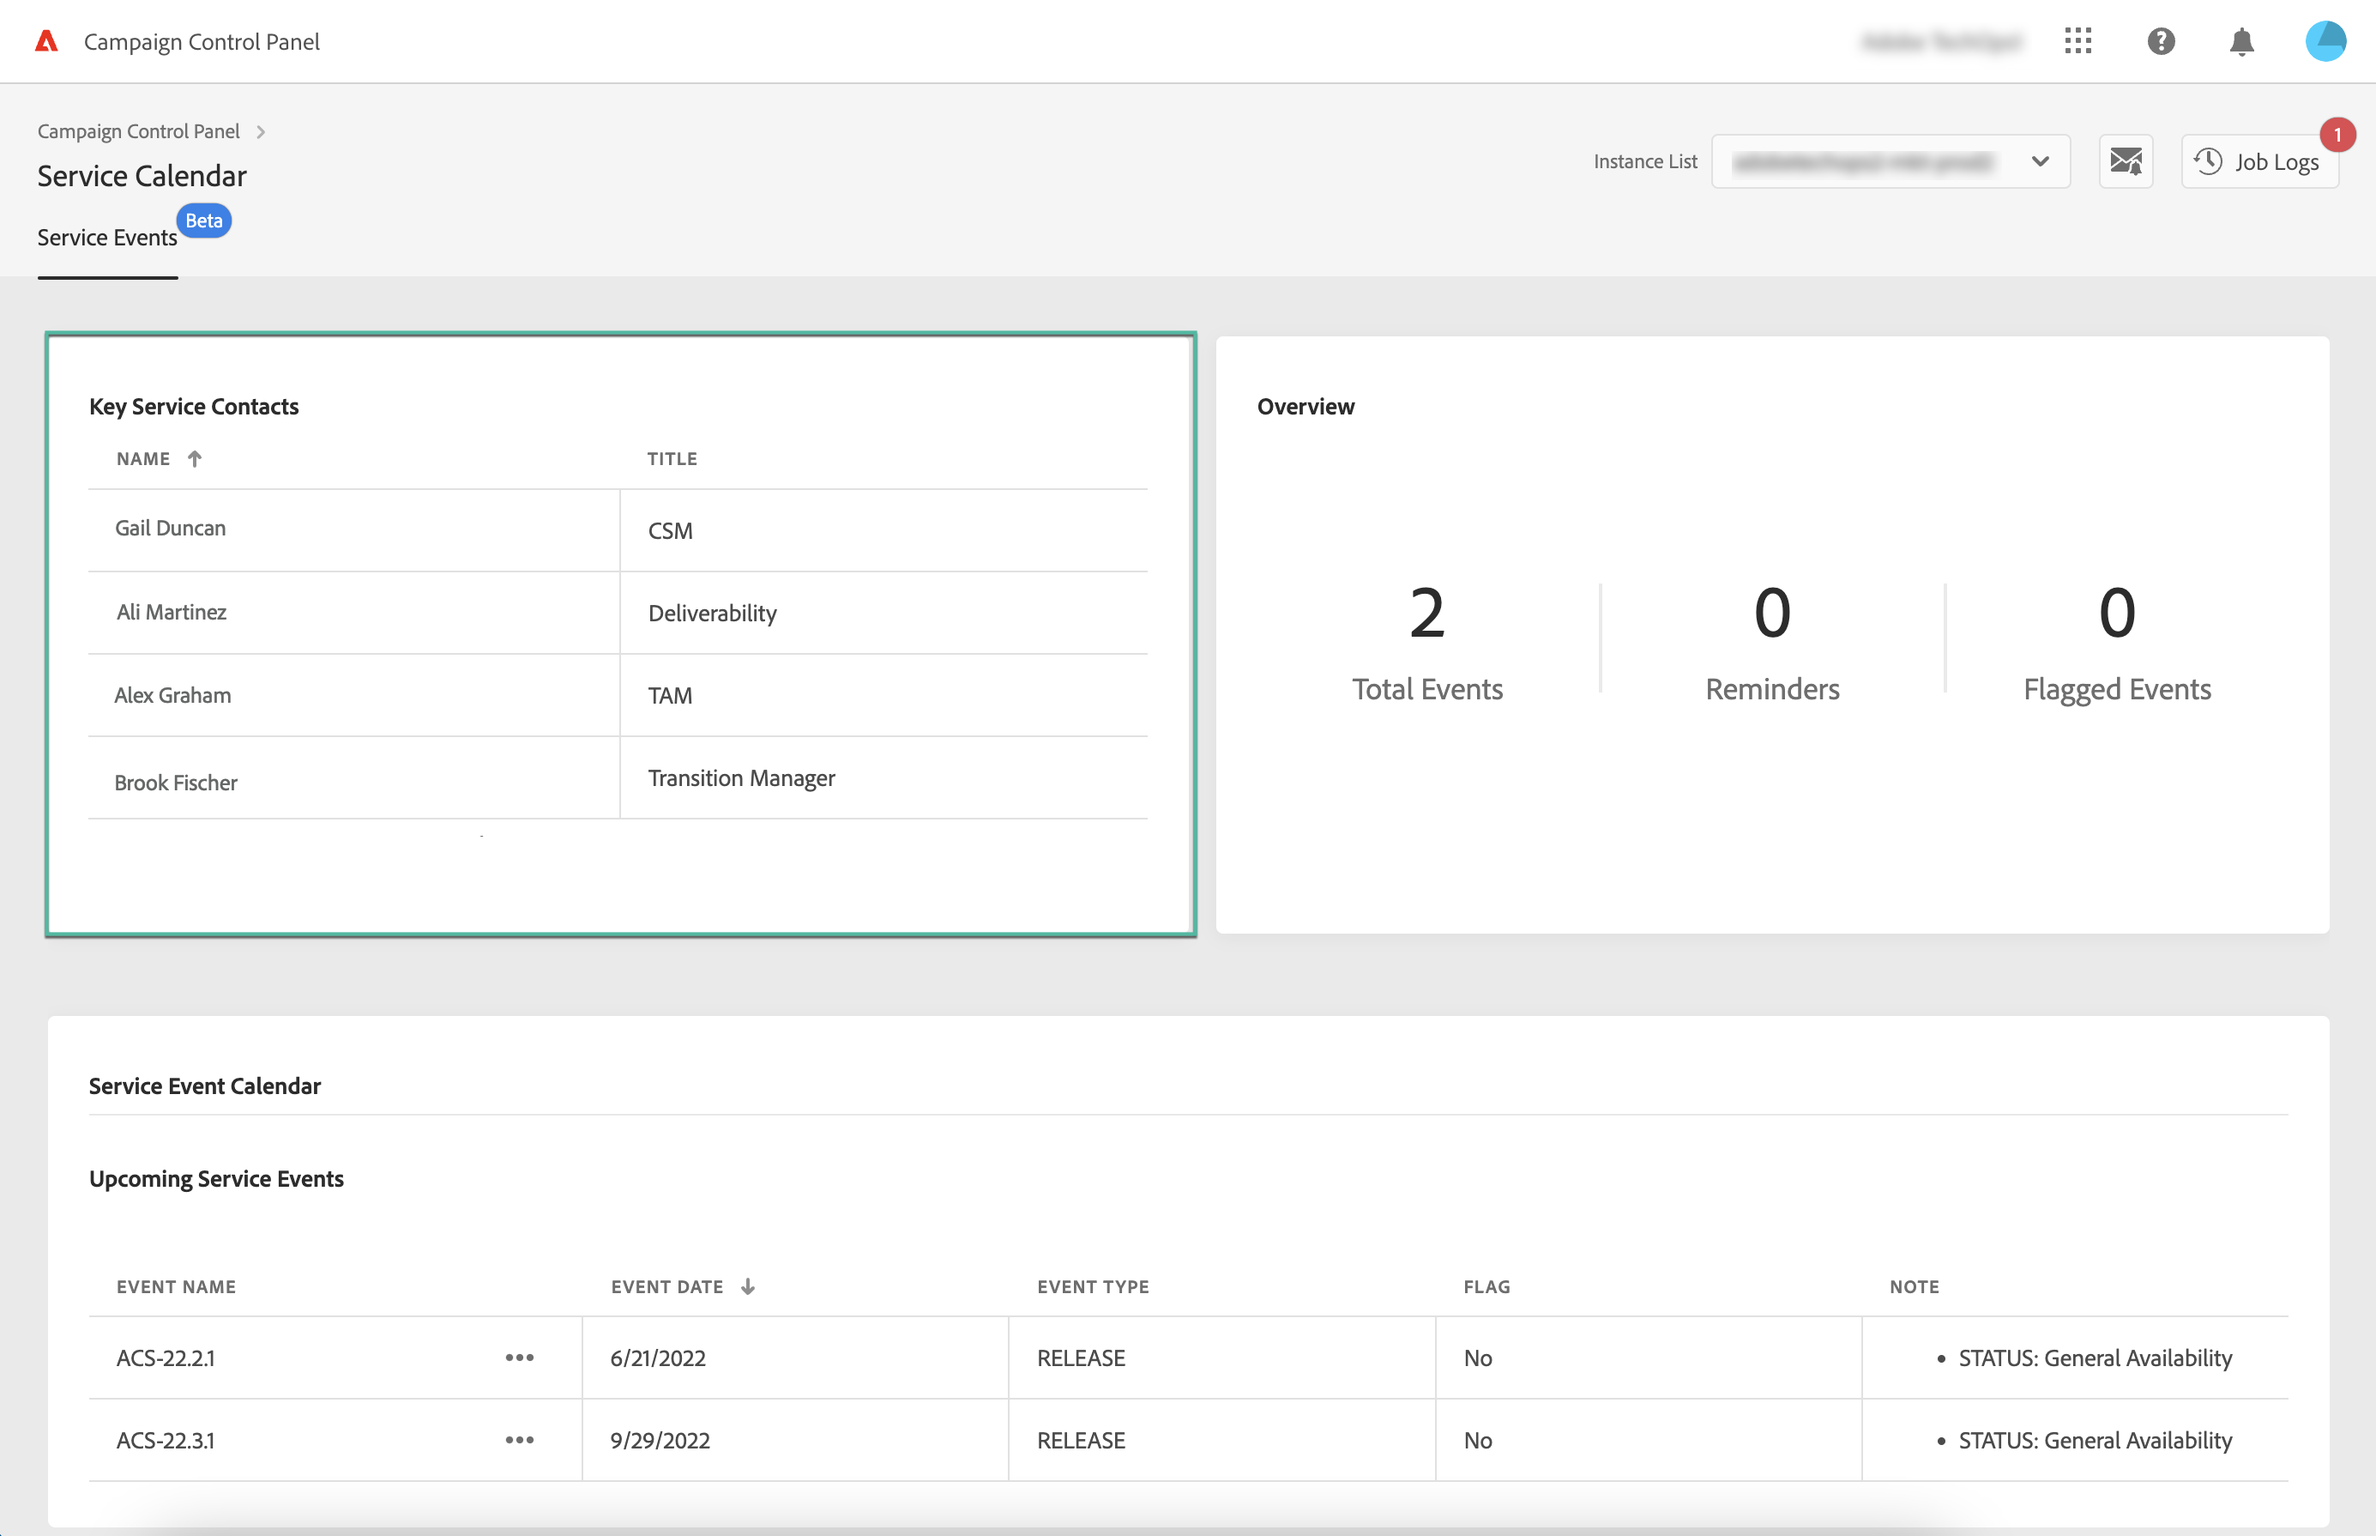
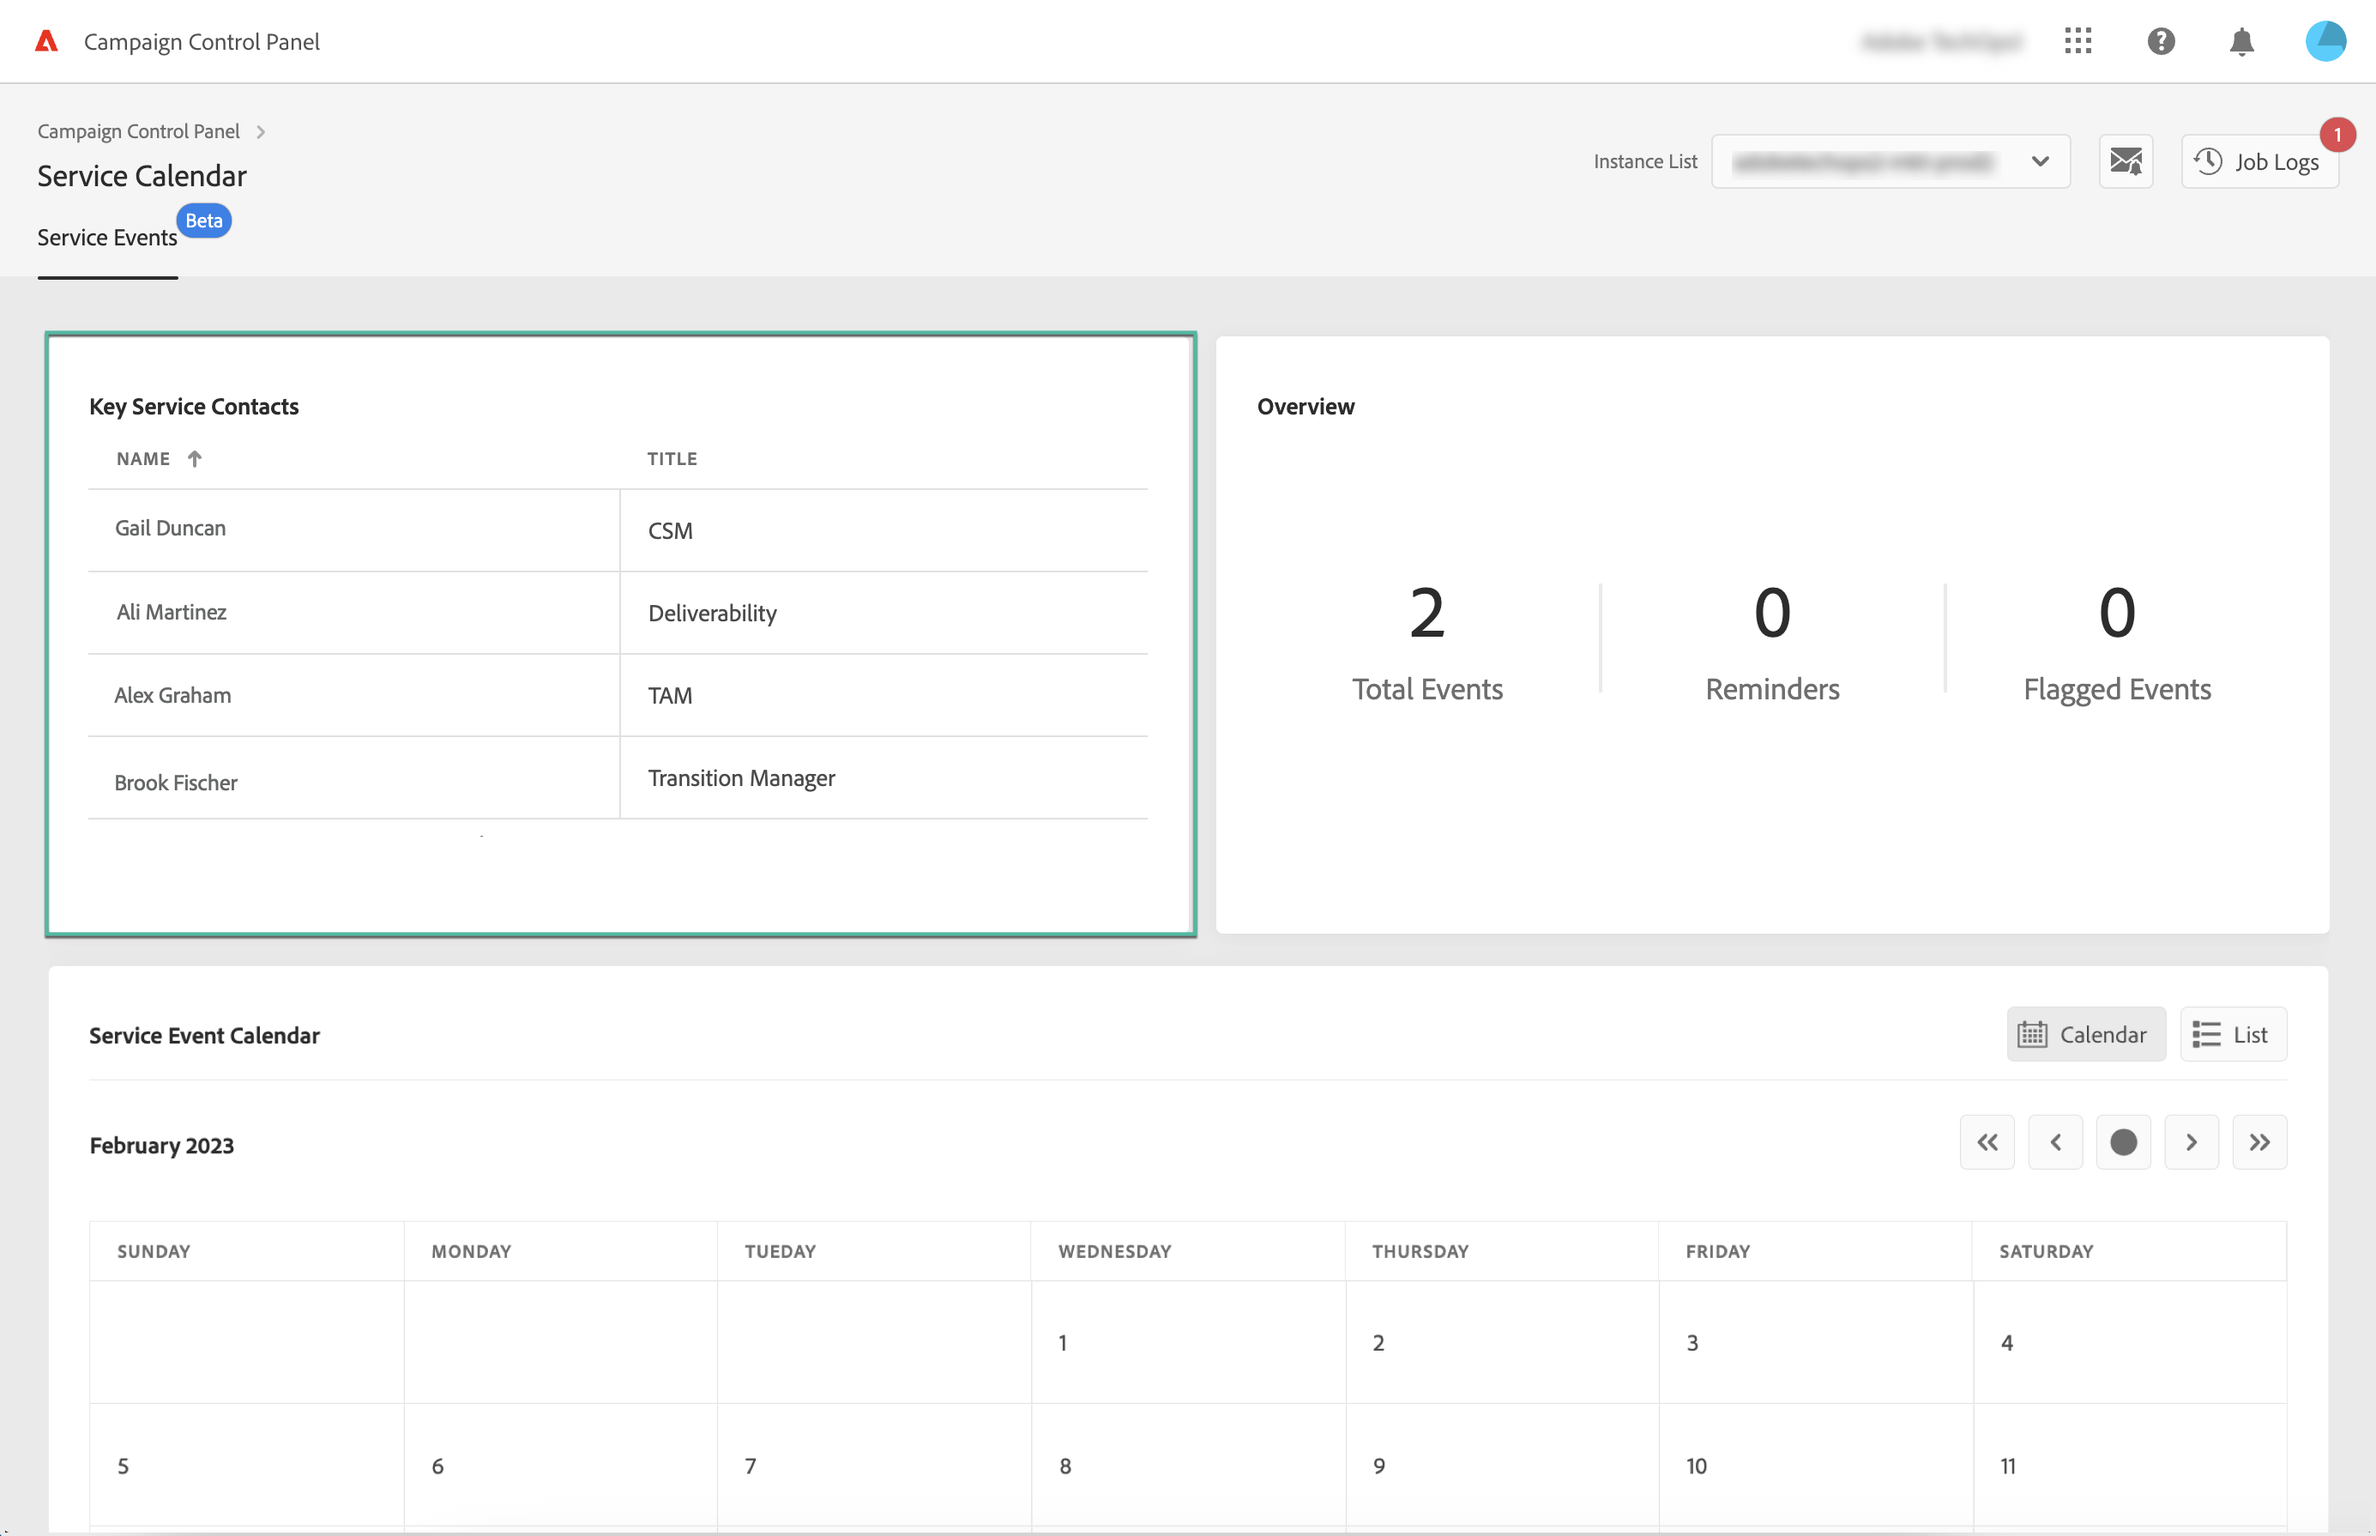
calendar

diff --git a/help/service-events/service-events.md b/help/service-events/service-events.md
@@ -13,17 +13,17 @@ exl-id: d230aae6-4f0e-4201-bb3c-0e3f83a7c1b8
 >[!CONTEXTUALHELP]
 >id="cp_servicecalendar_serviceevents"
 >title="Service Calendar"
->abstract="The Key contacts section lists the persons at Adobe to contact for any request or issue on your instances. In the Service Event Calendar section, you can identify releases and service reviews for the selected instance and set up reminders for upcoming events."
+>abstract="The Key contacts section lists the persons at Adobe to contact for any request or issue on your instances. In the Service Event Calendar section, you can identify past and upcoming releases, alerts for the selected instance and set up reminders for upcoming events."
 
 >[!IMPORTANT]
 >
 >Service Calendar is available in beta, and subject to frequent updates and modifications without notice.
 
-Identifying events planned on your instances is essential to monitor your Campaign instances.
+To effectively monitor your Campaign instances, it is crucial to identify events. The Control Panel allows you to monitor releases and alerts for your instances, and provides a list of key Adobe contacts for any requests or issues.
 
-With Control Panel, you can monitor releases and service reviews occurring on your instances and access a list of key contacts at Adobe for any request or issue.
+Identifying events on your Campaign instances is essential to effectively monitor them. Control Panel allows you to monitor releases and alerts for your instances, and provides a list of key Adobe contacts for any requests or issues.
 
-These information are accessible from the **[!UICONTROL Service Calendar]** card on Control Panel homepage.
+This information is accessible from the **[!UICONTROL Service Calendar]** card on Control Panel homepage.
 
 ## Key contacts {#key-contacts}
 
@@ -31,7 +31,7 @@ The **[!UICONTROL Key contacts]** section lists the persons at Adobe that you ca
 
 >[!NOTE]
 >
->This section will show information only for Managed Service Accounts.
+>This section only shows information for Managed Service Accounts.
 
 ![](assets/service-events-contacts.png)
 
@@ -43,29 +43,42 @@ Key contacts include the following roles:
 * **[!UICONTROL Transition Manager]**: Managed Services Transition Manager (Managed Services Account only),
 * **[!UICONTROL On-boarding Specialist]**: Specialist assigned to the account to help you on-board onto Campaign Classic (Managed Services Account only).
 
-## Events {#events}
+## Monitor events {#events}
 
-### Monitor events {#monitor-events}
+The **[!UICONTROL Service Event Calendar]** section shows all past and upcoming releases, as well as alerts and reminders for the selected instance.
 
-The **[!UICONTROL Service Event Calendar]** section shows all past and upcoming releases and service reviews for the selected instance.
+Events are displayed either in a calendar or a list. You can switch between the two views using the **[!UICONTROL Calendar]** and **[!UICONTROL List]** buttons in the upper-right corner of the section.
 
 ![](assets/service-events-calendar.png)
 
-The **[!UICONTROL Note]** column provides information on the status of each release:
+<table><tr style="border: 0;">
+<td><img src="assets/do-not-localize/nav-buttons.png">
+</td><td>In calendar view, navigation buttons are available in the upper-right corner to help you browse across the events. Use the <b>double arrows</b> to navigate to the previous or next event, and the <b>single arrows</b> to navigate from a month to another. Click the <b>circle button</b> to go back to today's view.</td>
+</tr></table>
 
-* **[!UICONTROL General availability]**: Latest available stable build.
-* **[!UICONTROL Limited availability]**: On-demand deployment only.
-* **[!UICONTROL Release candidate]**: Engineering validated. Waiting for production proofing.
-* **[!UICONTROL Pre release]**: Earlier availability for specific customer needs.
-* **[!UICONTROL No longer available]**: The build holds no major issue but a new one is available with additional bug fixes. An upgrade is required.
-* **[!UICONTROL Deprecated]**: Build embedding known regressions.
-The build is no longer supported. An upgrade is mandatory.
+Three types of events are displayed:
 
-You can assign a flag to one or several upcoming events to keep track of them. To do this, click the ellipse button next to the event name.
+* **Reminders** are notifications that can be set to alert users before an event occurs. These are shown in green in the calendar view. [Learn how to set reminder](#reminders)
+* **Alerts** are sent via email by the Control Panel to notify users of issues on their instances, such as storage overload or SSL certificate expiration. These are displayed in orange in the calendar view.
+
+    The event description specifies whether the alert is sent to the logged-in user, depending on their subscription to email alerts. [Learn more on Control Panel email alerting capabilities](../performance-monitoring/using/email-alerting.md)
+
+* **Releases** indicate both past and upcoming deployments to the instance, shown respectively in grey and blue in the calendar view.
+
+    The event details specify the type of release associated with each deployment:
+
+    * **[!UICONTROL General availability]**: Latest available stable build.
+    * **[!UICONTROL Limited availability]**: On-demand deployment only.
+    * **[!UICONTROL Release candidate]**: Engineering validated. Waiting for production proofing.
+    * **[!UICONTROL Pre release]**: Earlier availability for specific customer needs.
+    * **[!UICONTROL No longer available]**: The build holds no major issue but a new one is available with additional bug fixes. An upgrade is required.
+    * **[!UICONTROL Deprecated]**: Build embedding known regressions. The build is no longer supported. An upgrade is mandatory.
+
+Addtionally, you can assign a flag to one or several upcoming events to keep track of them. To do this, hover over the desired event in the calendar or click the ellipse button next to the event name in list view and flag it.
 
 ![](assets/service-events-flag.png)
 
-### Set reminders {#reminders}
+## Set reminders {#reminders}
 
 With Service Calendar, you can set reminders in order to be notified by email before an event is going to occur.
 
